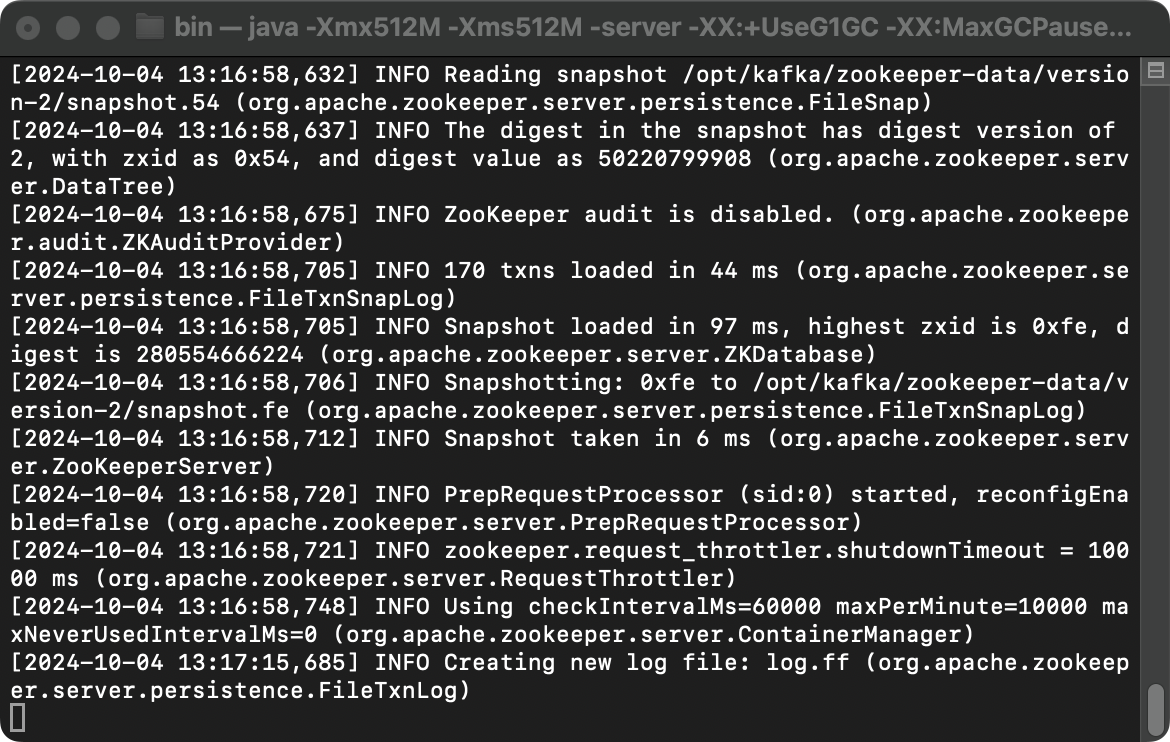
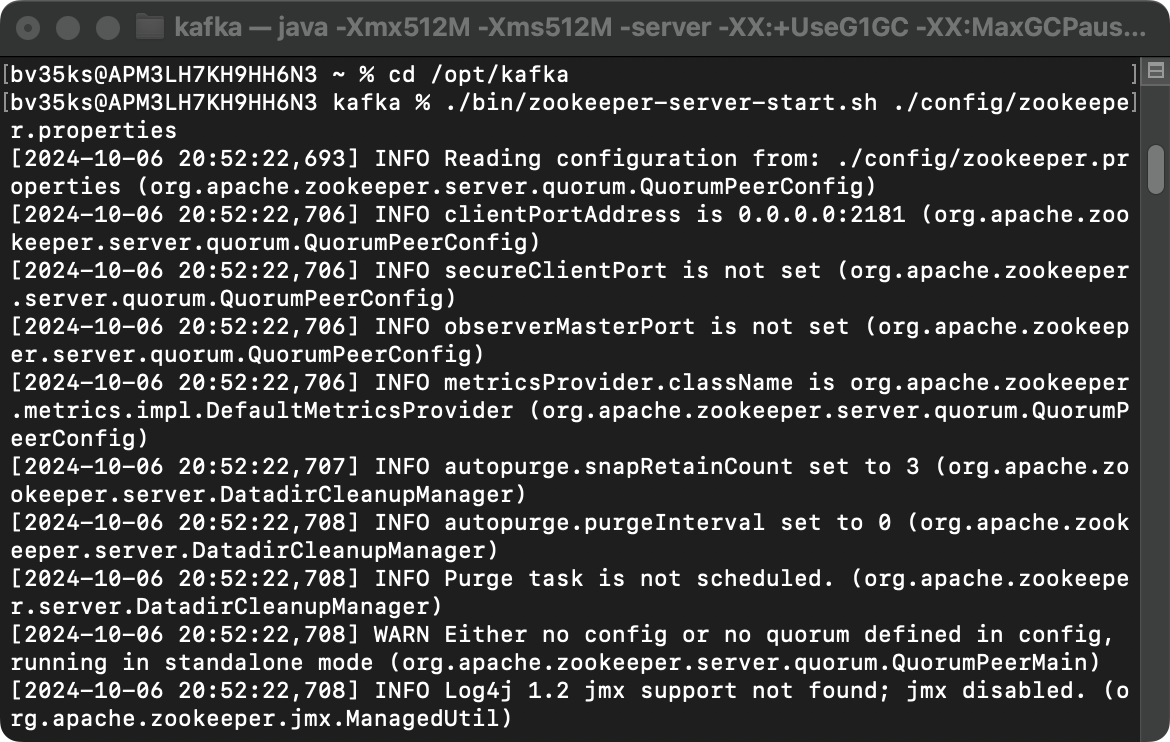
Kafka Tutorial

Changed region(s): [[0.0, 0.093, 1.0, 0.9919], [0.1538, 0.0, 0.9846, 0.062], [0.0, 0.372, 0.0308, 0.434]]

diff --git a/README.md b/README.md
@@ -153,9 +153,13 @@ Go to https://kafka.apache.org/downloads
 
 <img src="./img/kafka_32.png"></br>
 
+In the `C:\kafka\config` directory, you will find all the configuration of the **server** and **zookeper** with the extension of `.properties` in its' file name
+
 > ~ % **cd /opt/kafka/config**
 
 <img src="./img/kafka_33.png"></br>
+
+In `server.properties`, provide the path where **kafka** folder is extracted in `log.dirs`
 
 > config % **open server.properties**
 
@@ -165,19 +169,23 @@ Go to https://kafka.apache.org/downloads
 
 <img src="./img/kafka_35.png"></br>
 
+In `zookeeper.properties`, provide the path for the data directory in `dataDir`
+
 > config % **open zookeeper.properties**
 
 <img src="./img/kafka_36.png"></br>
 
-> ~ % **cd /opt/kafka/bin**
+Go to `kafka` directory
+
+> ~ % **cd /opt/kafka**
 
 #### Start Zookeeper and Kafka server
 
-> ./zookeeper-server-start.sh /opt/kafka/config/zookeeper.properties
+> ./bin/zookeeper-server-start.sh ./config/zookeeper.properties
 
 <img src="./img/kafka_37.png"></br>
 
-> ./kafka-server-start.sh /opt/kafka/config/server.properties
+> ./bin/kafka-server-start.sh ./config/server.properties
 
 <img src="./img/kafka_38.png"></br>
 
@@ -186,6 +194,10 @@ Go to https://kafka.apache.org/downloads
 > ./kafka-topics.sh --create --bootstrap-server localhost:9092 --topic test
 
 <img src="./img/kafka_39.png"></br>
+
+Go to `bin` directory
+
+> ~ % **cd /opt/kafka/bin**
 
 #### Consumer
 
